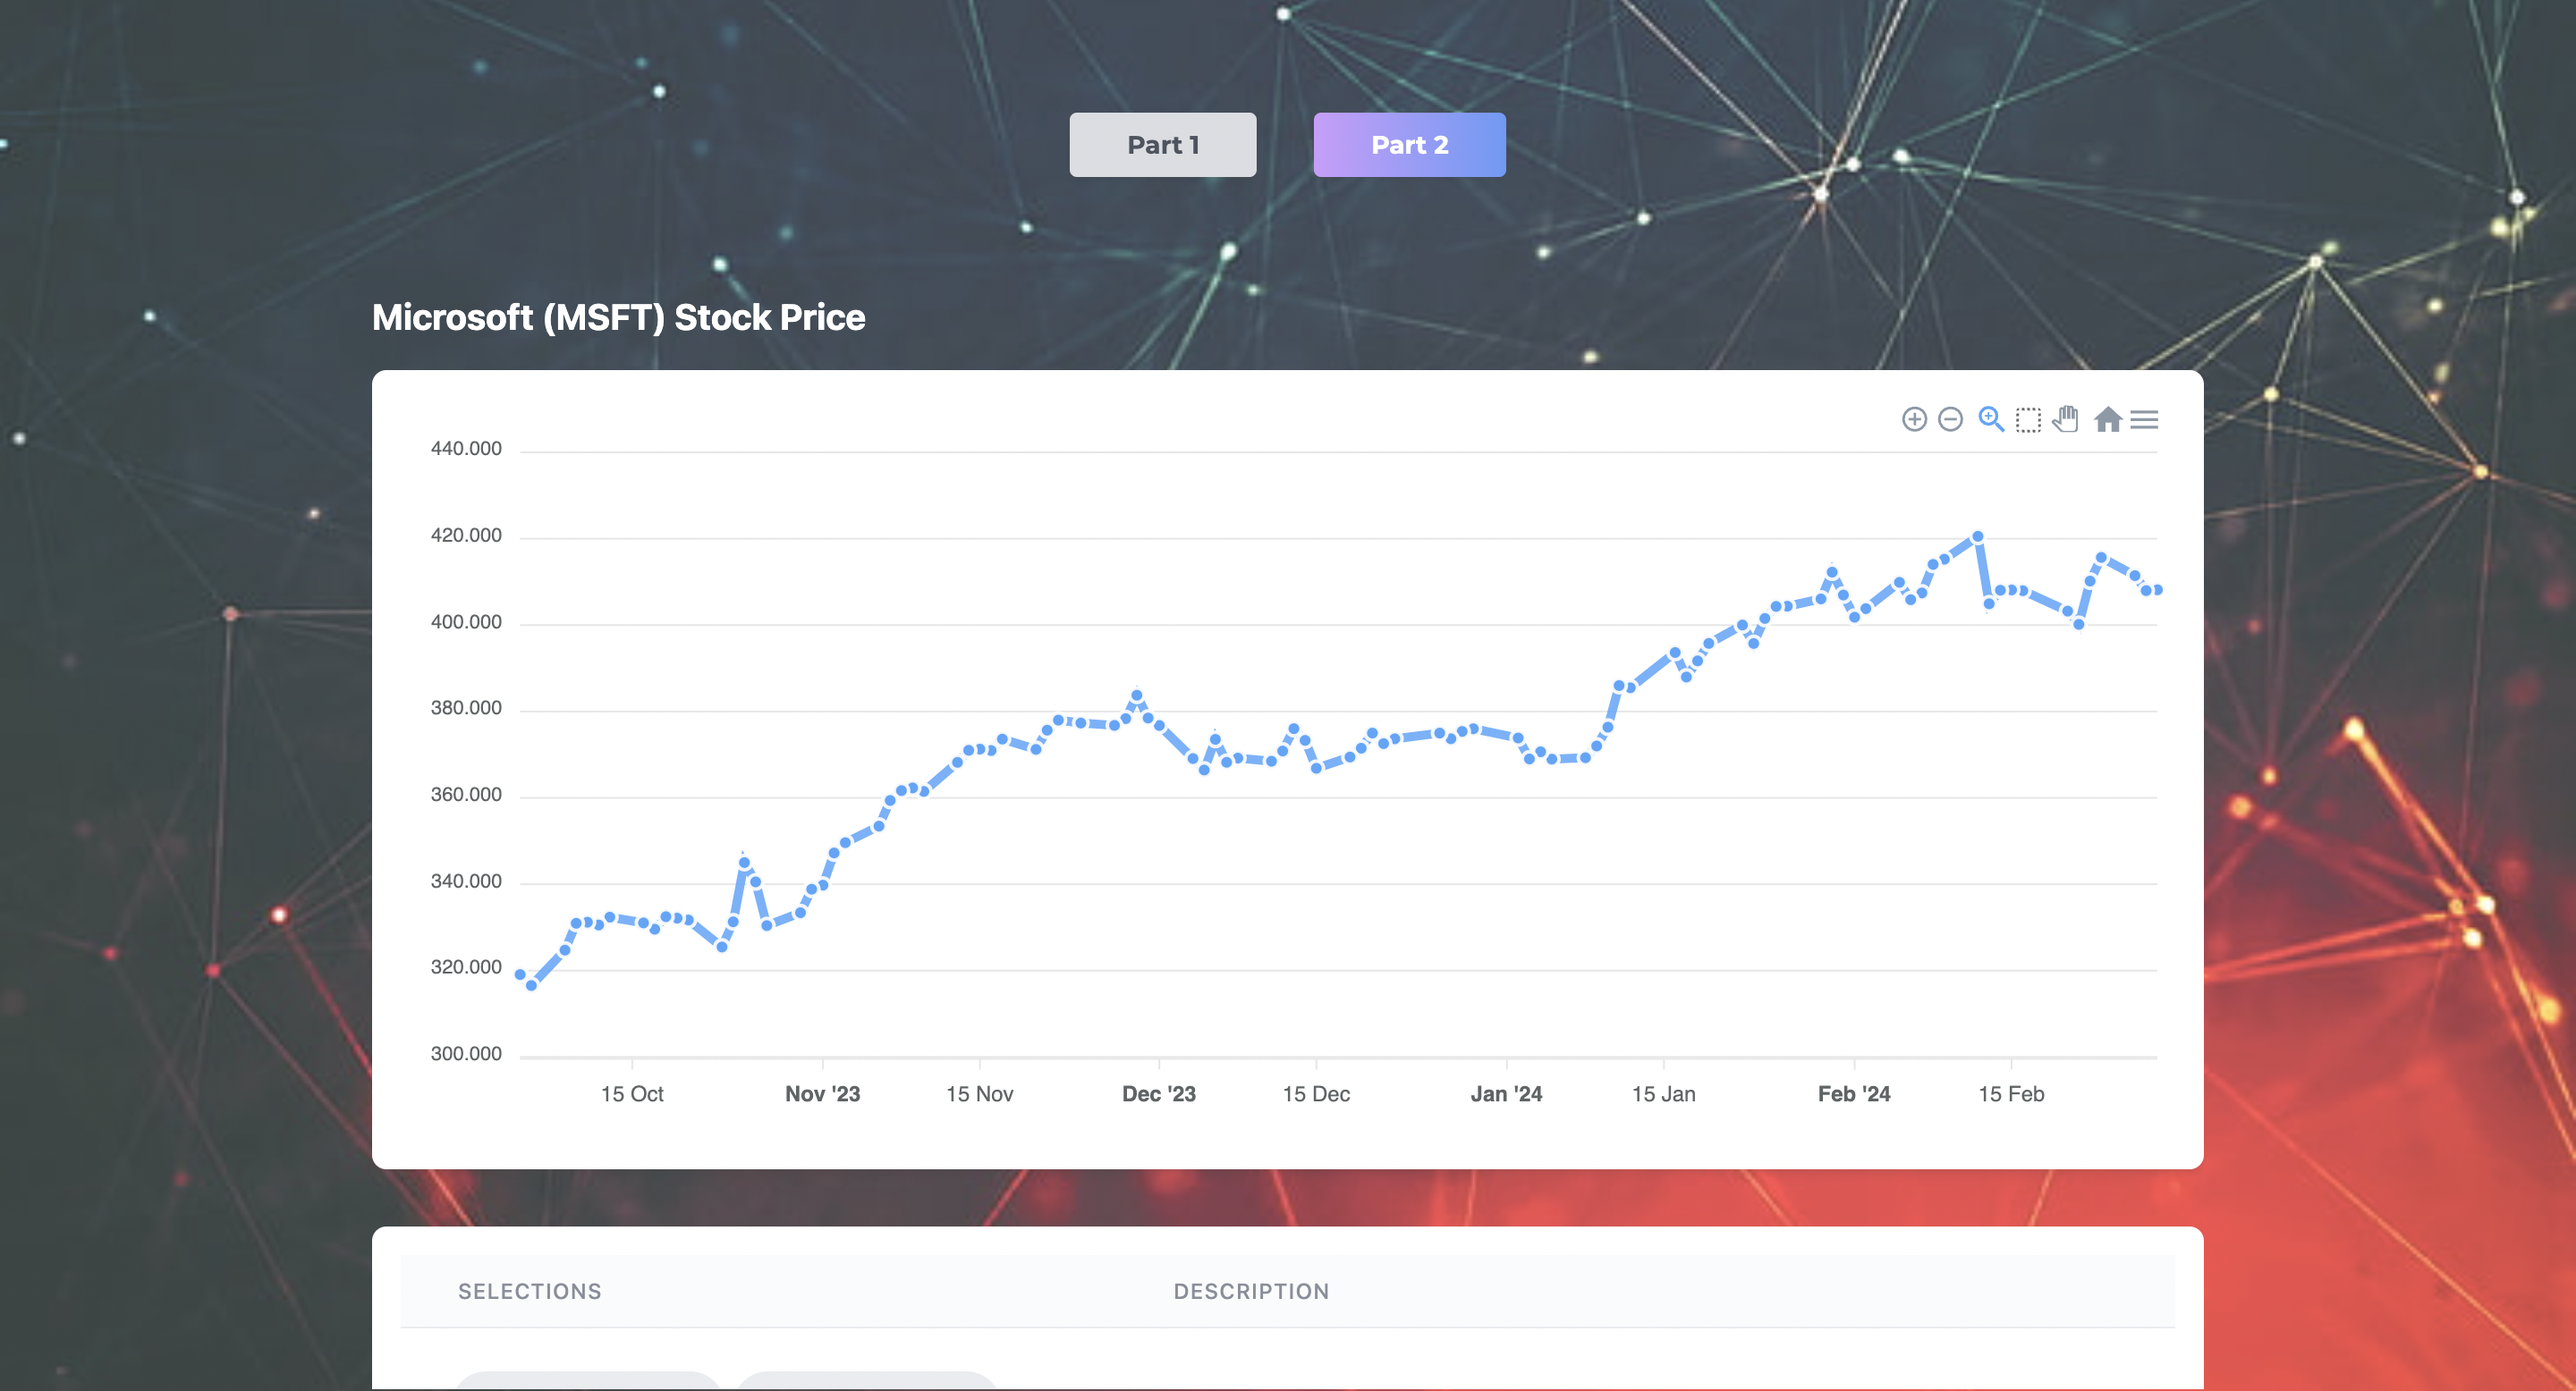
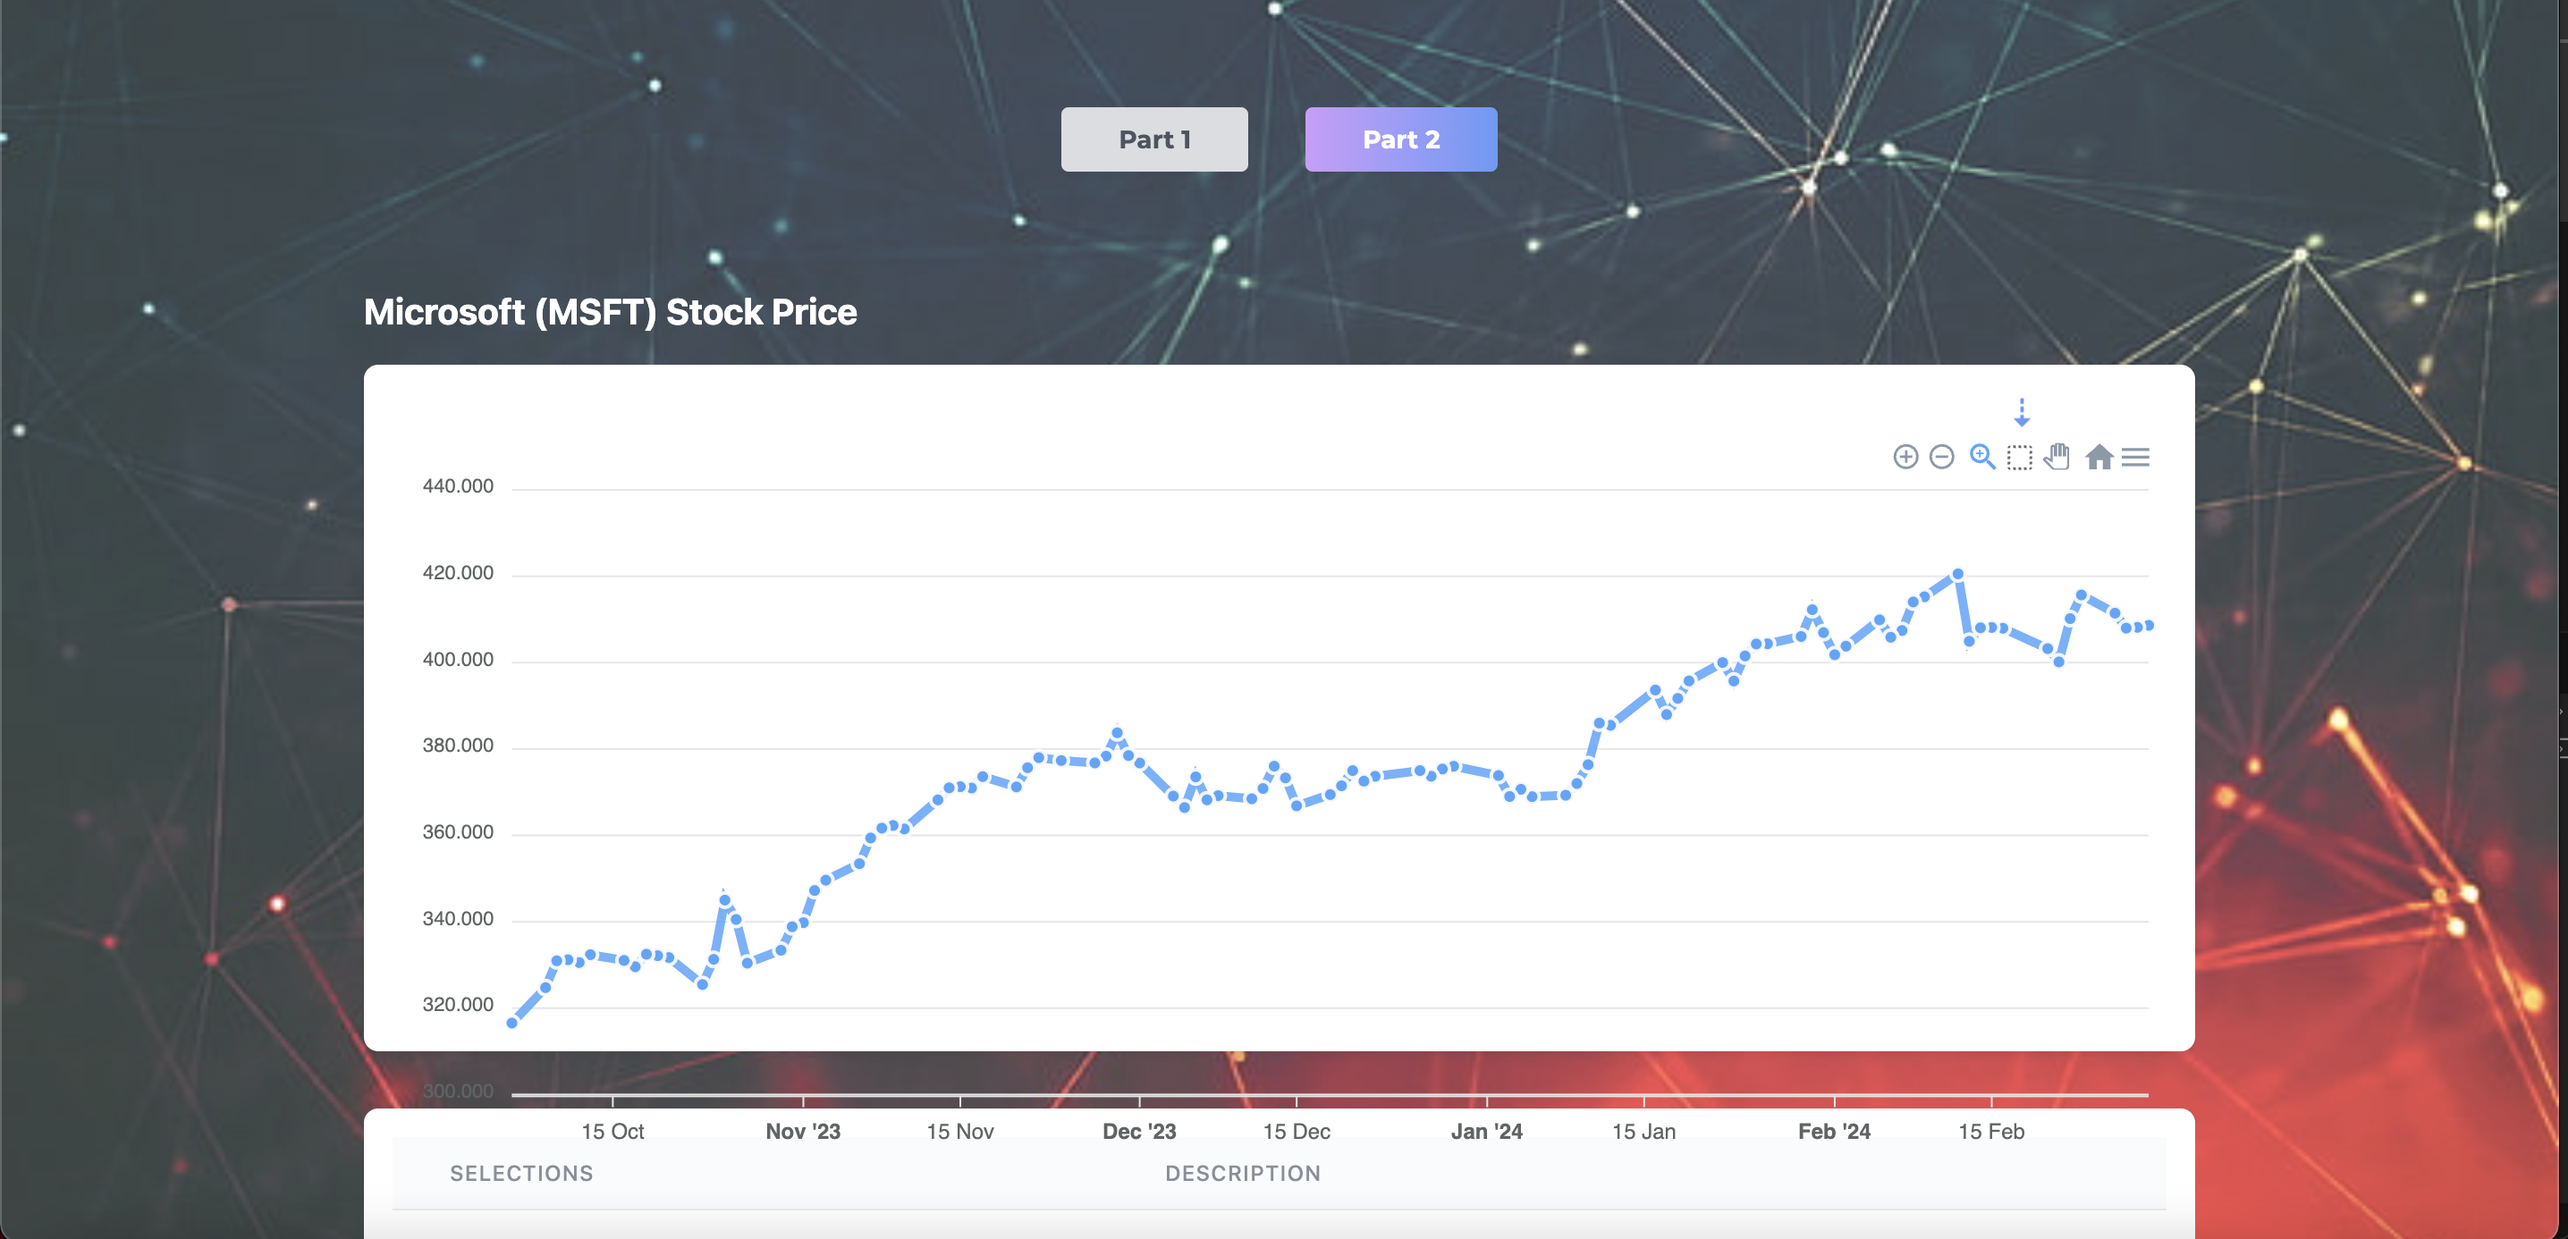
added an indicator to the selector

diff --git a/src/screens/PartTwo.tsx b/src/screens/PartTwo.tsx
@@ -4,6 +4,7 @@ import Chart from "react-apexcharts"
 import Grid from "../components/Grid"
 import { usePartTwo } from "../hooks/usePartTwo"
 import Loader from "../components/Loader"
+import SelectIndicator from "../components/SelectIndicator"
 
 const PartTwo: React.FC = React.memo(() => {
   const { stockData, chartOptions, isLoading, chartRef } = usePartTwo()
@@ -25,9 +26,10 @@ const PartTwo: React.FC = React.memo(() => {
           )}
 
           <div
-            className={`flex flex-col bg-white p-4 shadow-md rounded-lg min-h-96`}
+            className={`flex flex-col bg-white p-4 shadow-md rounded-lg h-96`}
             data-testid="chart-component"
           >
+            <SelectIndicator />
             <Chart
               ref={chartRef}
               type="line"

diff --git a/src/components/SelectIndicator.tsx b/src/components/SelectIndicator.tsx
@@ -1,0 +1,13 @@
+import React from 'react';
+
+const SelectIndicator: React.FC = () => {
+    return (
+        <div className='flex w-full items-center justify-end'>
+            <div className="animate-bounce w-6 h-6 mr-16">
+               <p className='font-face-mb font-bold text-xl text-blue-500'>⇣</p>
+            </div>
+        </div>
+    );
+}
+
+export default SelectIndicator;

diff --git a/src/utils/types.ts b/src/utils/types.ts
@@ -1,9 +1,3 @@
-import { SVGProps } from "react"
-
-export interface IconPropsType extends SVGProps<SVGSVGElement> {
-  id: string;
-}
-
 export interface Todo {
   id: number;
   text: string;

diff --git a/README.md b/README.md
@@ -6,6 +6,7 @@
 ![Part One: List of texts](screenshots/photo1.png)
 ![Part Two: Chart](screenshots/photo2.png)
 ![Part Two: Grid of Selection with description](screenshots/photo3.png)
+![Onboarding Modal](screenshots/photo4.png)
 
 - Start frontend :
 - Install pakages `yarn install`  then run  `yarn dev`
